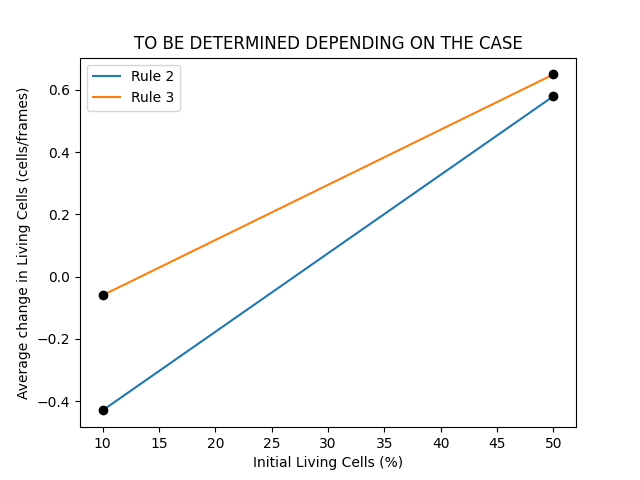
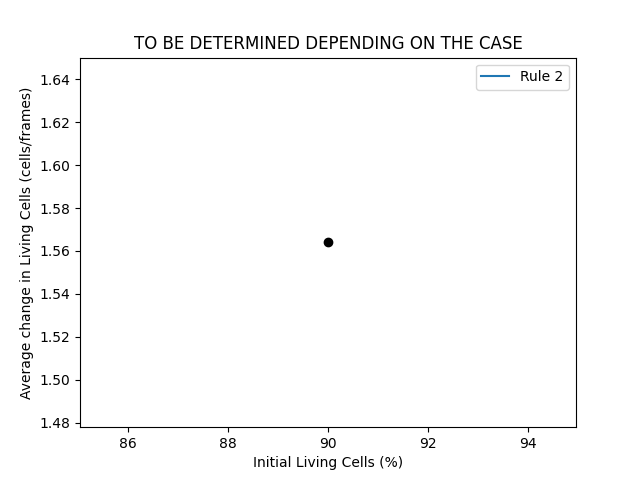
[Stats] Added correct stats to stats file to correctly create the graphs

diff --git a/src/main/java/Main.java b/src/main/java/Main.java
@@ -9,6 +9,8 @@ import java.util.List;
 
 public class Main {
     private final static String STAT_FILE = "./parsable_files/statistics.txt";
+    private final static String LIVING_STATS = "Living";
+    private final static String DISPLACEMENT_STATS = "Displacement";
 
     public static void main(String[] args) {
         // Parsing the options
@@ -29,19 +31,28 @@ public class Main {
 
         List<int[]> pointsToWrite;
         // Used to calculate the slope (velocity) of the function maxDistance(t)
-        SimpleRegression regression = new SimpleRegression();
+        SimpleRegression regressionDistance = new SimpleRegression();
         // Getting the initial maximum distance into the regression
-        regression.addData(0, gol.calculateMaxDistance());
+        regressionDistance.addData(0, gol.calculateMaxDistance());
+
+        // Used to calculate the rate of change of the living cells
+        SimpleRegression regressionLiving = new SimpleRegression();
+        regressionDistance.addData(0, ConfigurationParser.livingCells);
 
         for (int i = 1; i < OptionsParser.timeInterval; i++) {
             // Simulating the step
             pointsToWrite = gol.simulateStep();
-            // Adding the points x(t) to the regression
-            regression.addData(i, gol.getMaxDistance());
+
+            // Adding the points to the regressions
+            regressionDistance.addData(i, gol.getMaxDistance());
+            regressionLiving.addData(i, gol.getLivingCellsCount());
+
             // Writing results to file
             GenerateOutputFile(pointsToWrite, i);
         }
-        AddToStatisticsFile(ConfigurationParser.livingPercentage, regression.getSlope());
+
+        AddToStatisticsFile(ConfigurationParser.is2D, DISPLACEMENT_STATS, ruleSet, ConfigurationParser.livingPercentage, regressionDistance.getSlope());
+        AddToStatisticsFile(ConfigurationParser.is2D, LIVING_STATS, ruleSet, ConfigurationParser.livingPercentage, regressionLiving.getSlope());
     }
 
     private static void GenerateOutputFile(List<int[]> cells, int iteration) {
@@ -76,9 +87,9 @@ public class Main {
      * @param livingPercentage Number between 0 and 100 that indicates the percentage of living cells in the initial configuration inside the limited space
      * @param velocity Slope of the regression created by the max distance of a living cell to the origin in function of time intervals
      */
-    private static void AddToStatisticsFile(double livingPercentage, double velocity) {
+    private static void AddToStatisticsFile(boolean is2D, String statType, RuleSet rule, double livingPercentage, double velocity) {
         try {
-            String sf = String.format("%.3f %.3f\n", livingPercentage, velocity);
+            String sf = String.format("%d %s %s %.3f %.3f\n", is2D ? 2 : 3, statType, rule.toString(), livingPercentage, velocity);
             Files.write(Paths.get(STAT_FILE), sf.getBytes(), StandardOpenOption.APPEND);
 
         } catch (FileNotFoundException e) {

diff --git a/src/main/java/GameOfLife2D.java b/src/main/java/GameOfLife2D.java
@@ -37,6 +37,7 @@ public class GameOfLife2D implements GameOfLife {
     private final int yLim;
     private final RuleSet rule;
     private double maxDistance = 0;
+    private int livingCellsCount = 0;
 
     public GameOfLife2D(List<char[][]> layers, RuleSet ruleId) {
         // Setting the board limits
@@ -53,7 +54,10 @@ public class GameOfLife2D implements GameOfLife {
         // List for active cells
         List<int[]> activeCells = new ArrayList<>();
         List<int[]> deadCells = new ArrayList<>();
-        maxDistance = 0;
+
+        // Resetting the variables
+        this.maxDistance = 0;
+        this.livingCellsCount = 0;
 
         // Variable for the live neighbours
         int liveNeighbours, newState;
@@ -86,12 +90,18 @@ public class GameOfLife2D implements GameOfLife {
         }
         // Updating board
         for (int[] cell : activeCells) {
+            this.livingCellsCount++;
             this.board[cell[0]][cell[1]] = 1;
         }
         for (int[] cell : deadCells) {
             this.board[cell[0]][cell[1]] = 0;
         }
         return activeCells;
+    }
+
+    @Override
+    public int getLivingCellsCount() {
+        return livingCellsCount;
     }
 
     public double getMaxDistance() {

diff --git a/src/main/java/GameOfLife3D.java b/src/main/java/GameOfLife3D.java
@@ -46,6 +46,7 @@ public class GameOfLife3D implements GameOfLife {
     private final int zLim;
     private final RuleSet rule;
     private double maxDistance = 0;
+    private int livingCellsCount = 0;
 
     public GameOfLife3D(List<char[][]> layers, RuleSet ruleId) {
         // Setting the board limits
@@ -76,8 +77,9 @@ public class GameOfLife3D implements GameOfLife {
         // Varaible for the distance
         double distanceToCenter;
 
-        // Resetting the distance variable
-        maxDistance = 0;
+        // Resetting the variables
+        this.maxDistance = 0;
+        this.livingCellsCount = 0;
 
         for (int z = 0; z < this.zLim; z++) {
             for (int x = 0; x < this.xLim; x++) {
@@ -106,6 +108,7 @@ public class GameOfLife3D implements GameOfLife {
 
         // Setting the new dead cells
         deadCells.forEach(cell -> {
+            this.livingCellsCount++;
             this.board[cell[2]][cell[0]][cell[1]] = 0;
         });
 
@@ -115,6 +118,11 @@ public class GameOfLife3D implements GameOfLife {
         });
 
         return activeCells;
+    }
+
+    @Override
+    public int getLivingCellsCount() {
+        return livingCellsCount;
     }
 
     public double getMaxDistance() {

diff --git a/src/main/java/ConfigurationParser.java b/src/main/java/ConfigurationParser.java
@@ -8,6 +8,7 @@ import java.util.Scanner;
 public class ConfigurationParser {
     public static boolean is2D;
     public static double livingPercentage;
+    public static int livingCells = 0;
     public static int xLim;
     public static int yLim;
     public static int zLim = 1;
@@ -76,6 +77,7 @@ public class ConfigurationParser {
             }
             // Setting the board cell (x, y, z) as alive
             board.get(z)[x][y] = 1;
+            livingCells++;
         }
     }
 }

diff --git a/src/main/java/GameOfLife.java b/src/main/java/GameOfLife.java
@@ -2,6 +2,7 @@ import java.util.List;
 
 public interface GameOfLife {
     List<int[]> simulateStep();
+    int getLivingCellsCount();
     double getMaxDistance();
     double calculateMaxDistance();
 }

diff --git a/src/main/java/RuleSet.java b/src/main/java/RuleSet.java
@@ -26,4 +26,9 @@ public enum RuleSet{
     static int minRule() {
         return 1;
     }
+
+    @Override
+    public String toString() {
+        return String.valueOf(ruleId);
+    }
 }
